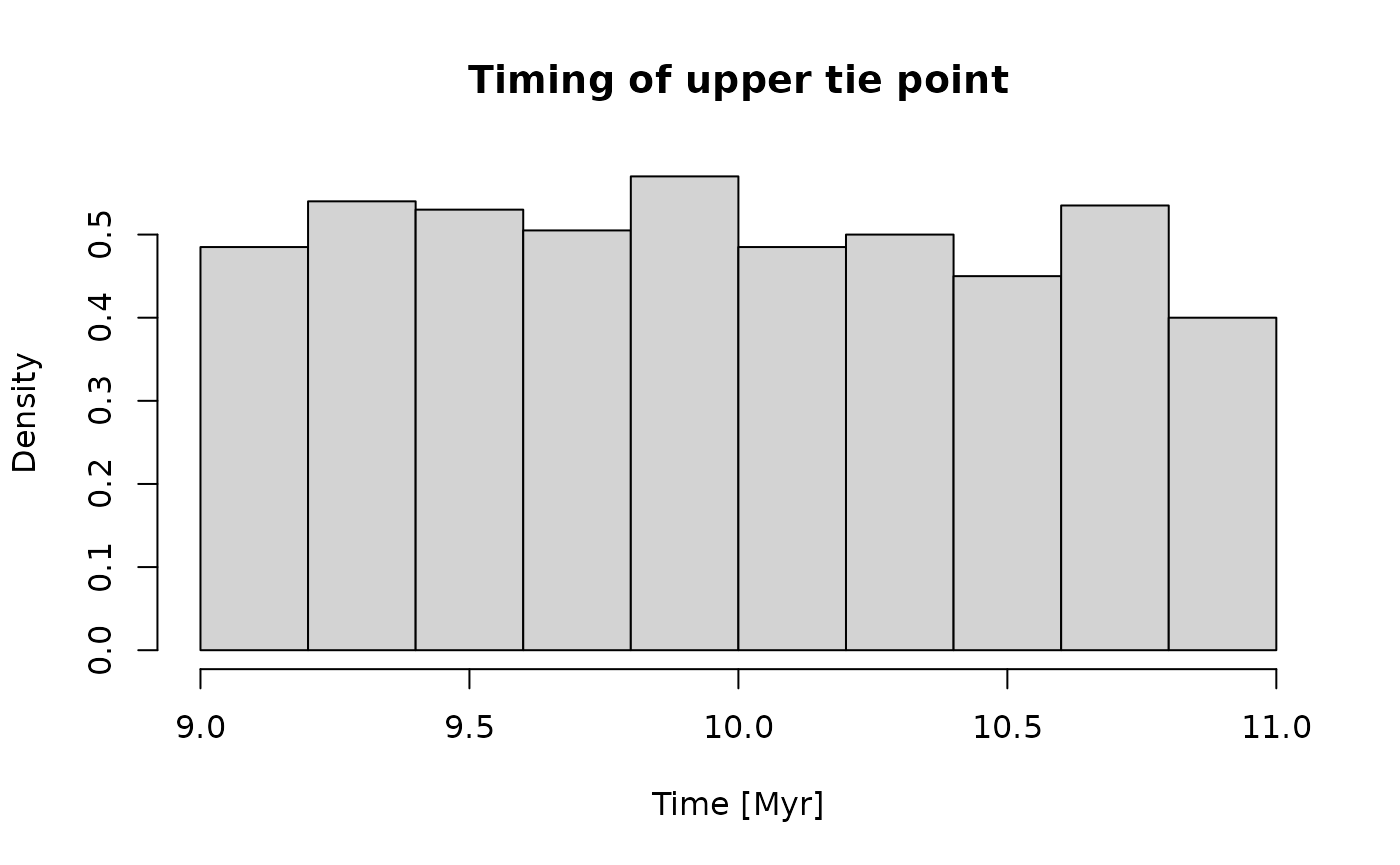
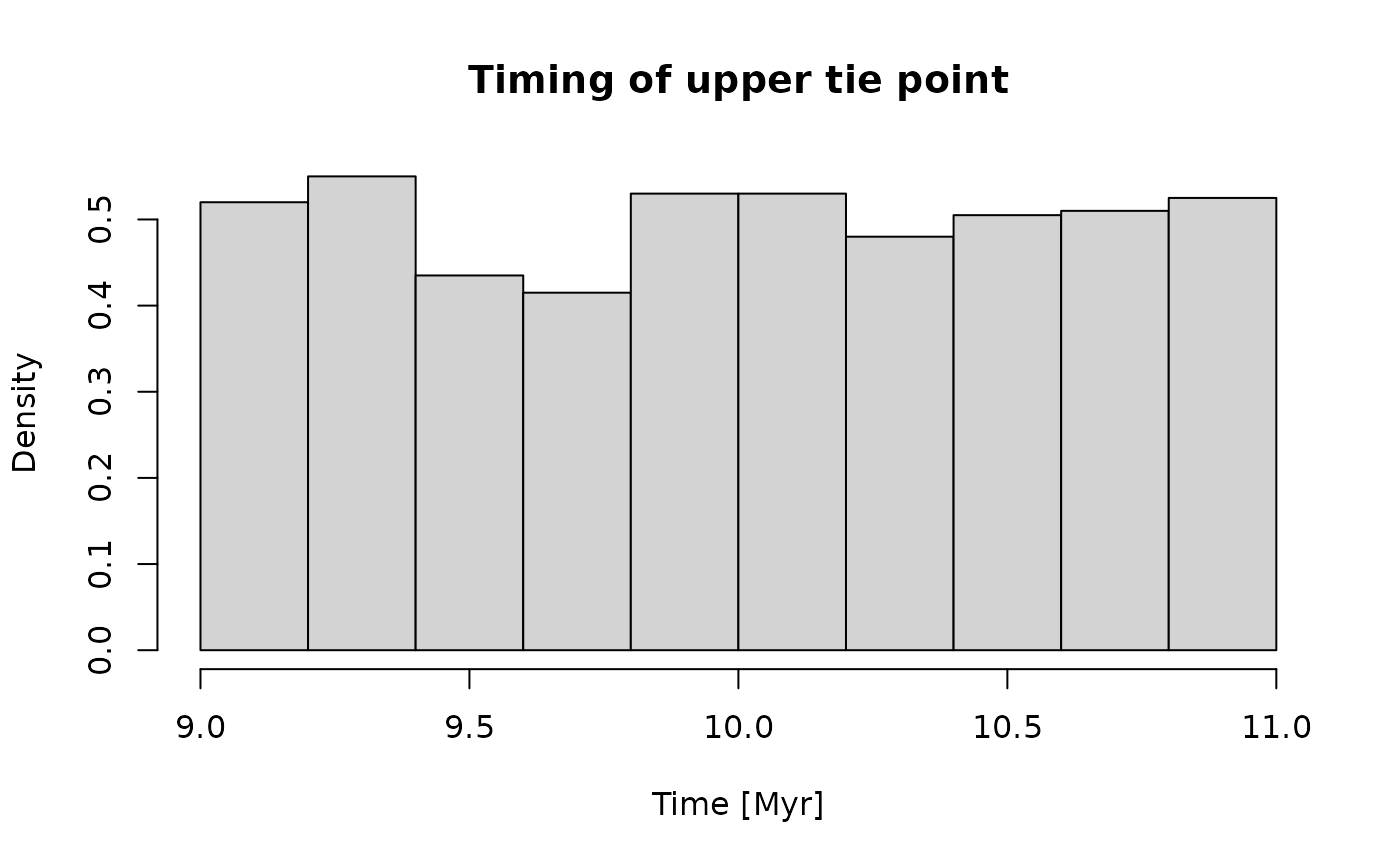
Deploying to gh-pages from @ MindTheGap-ERC/admtools@b048e6ee0ab0dc330cd47e70485b42209ff1c9a5 🚀

diff --git a/articles/admtools.html b/articles/admtools.html
@@ -276,7 +276,7 @@ duration.</li>
 <p>The function <code>is_destructive</code> can be used to examine
 whether points in time coincide with hiatuses:</p>
 <div class="sourceCode" id="cb16"><pre class="downlit sourceCode r">
-<code class="sourceCode R"><span><span class="fu"><a href="../reference/is_destructive.html">is_destructive</a></span><span class="op">(</span>adm <span class="op">=</span> <span class="va">my_adm</span>,</span>
+<code class="sourceCode R"><span><span class="fu"><a href="../reference/is_destructive.html">is_destructive</a></span><span class="op">(</span><span class="va">my_adm</span>,</span>
 <span>               t <span class="op">=</span> <span class="fu"><a href="https://rdrr.io/r/base/c.html" class="external-link">c</a></span><span class="op">(</span><span class="fl">0.1</span>,<span class="fl">0.5</span><span class="op">)</span><span class="op">)</span> </span>
 <span><span class="co">#&gt; [1] FALSE  TRUE</span></span></code></pre></div>
 </div>
@@ -301,14 +301,14 @@ returns a vector of associated positions</li>
 following stratigraphic positions:</p>
 <div class="sourceCode" id="cb17"><pre class="downlit sourceCode r">
 <code class="sourceCode R"><span><span class="va">h</span> <span class="op">=</span> <span class="fu"><a href="https://rdrr.io/r/base/c.html" class="external-link">c</a></span><span class="op">(</span><span class="fl">30</span>,<span class="fl">120</span><span class="op">)</span> <span class="co"># stratigraphic positions</span></span>
-<span><span class="fu"><a href="../reference/get_time.html">get_time</a></span><span class="op">(</span>adm <span class="op">=</span> <span class="va">my_adm</span>,</span>
+<span><span class="fu"><a href="../reference/get_time.html">get_time</a></span><span class="op">(</span><span class="va">my_adm</span>,</span>
 <span>             h <span class="op">=</span> <span class="va">h</span><span class="op">)</span></span>
 <span><span class="co">#&gt; [1] 0.1380552 1.2704696</span></span></code></pre></div>
 <p>Conversely, to determine what parts of the section are deposited as a
 specific time, use</p>
 <div class="sourceCode" id="cb18"><pre class="downlit sourceCode r">
 <code class="sourceCode R"><span><span class="va">t</span> <span class="op">=</span> <span class="fu"><a href="https://rdrr.io/r/base/c.html" class="external-link">c</a></span><span class="op">(</span><span class="fl">0.2</span>,<span class="fl">1.4</span><span class="op">)</span></span>
-<span><span class="fu"><a href="../reference/get_height.html">get_height</a></span><span class="op">(</span>adm <span class="op">=</span> <span class="va">my_adm</span>,</span>
+<span><span class="fu"><a href="../reference/get_height.html">get_height</a></span><span class="op">(</span><span class="va">my_adm</span>,</span>
 <span>           t <span class="op">=</span> <span class="va">t</span><span class="op">)</span></span>
 <span><span class="co">#&gt; [1] 39.13951       NA</span></span></code></pre></div>
 <p>Here, the <code>NA</code> indicates that the time 1.4 coincides with
@@ -317,7 +317,7 @@ that coincides with that time, use the option
 <code>destructive = FALSE</code>:</p>
 <div class="sourceCode" id="cb19"><pre class="downlit sourceCode r">
 <code class="sourceCode R"><span><span class="va">t</span> <span class="op">=</span> <span class="fu"><a href="https://rdrr.io/r/base/c.html" class="external-link">c</a></span><span class="op">(</span><span class="fl">0.2</span>,<span class="fl">1.4</span><span class="op">)</span></span>
-<span><span class="fu"><a href="../reference/get_height.html">get_height</a></span><span class="op">(</span>adm <span class="op">=</span> <span class="va">my_adm</span>,</span>
+<span><span class="fu"><a href="../reference/get_height.html">get_height</a></span><span class="op">(</span><span class="va">my_adm</span>,</span>
 <span>           t <span class="op">=</span> <span class="va">t</span>,</span>
 <span>           destructive <span class="op">=</span> <span class="cn">FALSE</span><span class="op">)</span></span>
 <span><span class="co">#&gt; [1]  39.13951 126.27764</span></span></code></pre></div>

diff --git a/articles/adm_from_trace_cont.html b/articles/adm_from_trace_cont.html
@@ -259,7 +259,7 @@ using the function <code>strat_cont_to_multiadm</code>. Here, I
 determine the age-depth models every 0.25 m, and generate 10 ADMs</p>
 <div class="sourceCode" id="cb11"><pre class="downlit sourceCode r">
 <code class="sourceCode R"><span><span class="va">h</span> <span class="op">=</span> <span class="fu"><a href="https://rdrr.io/r/base/seq.html" class="external-link">seq</a></span><span class="op">(</span><span class="va">h_min</span>,<span class="va">h_max</span>, by <span class="op">=</span> <span class="fl">0.25</span><span class="op">)</span> <span class="co"># strat. positions where ADMs are estimated</span></span>
-<span><span class="va">no_of_rep</span> <span class="op">=</span> <span class="fl">10</span> <span class="co"># no. of ADMs estimated</span></span></code></pre></div>
+<span><span class="va">no_of_rep</span> <span class="op">=</span> <span class="fl">1000</span> <span class="co"># no. of ADMs estimated</span></span></code></pre></div>
 <div class="sourceCode" id="cb12"><pre class="downlit sourceCode r">
 <code class="sourceCode R"><span><span class="va">my_adm</span> <span class="op">=</span> <span class="fu"><a href="../reference/strat_cont_to_multiadm.html">strat_cont_to_multiadm</a></span><span class="op">(</span>h_tp <span class="op">=</span> <span class="va">h_tp</span>,</span>
 <span>                                t_tp <span class="op">=</span> <span class="va">t_tp</span>,</span>
@@ -270,7 +270,11 @@ determine the age-depth models every 0.25 m, and generate 10 ADMs</p>
 <p>The estimated age-depth model can be handed to plot to display
 it:</p>
 <div class="sourceCode" id="cb13"><pre class="downlit sourceCode r">
-<code class="sourceCode R"><span><span class="fu"><a href="https://rdrr.io/r/graphics/plot.default.html" class="external-link">plot</a></span><span class="op">(</span><span class="va">my_adm</span><span class="op">)</span></span></code></pre></div>
+<code class="sourceCode R"><span><span class="fu"><a href="https://rdrr.io/r/graphics/plot.default.html" class="external-link">plot</a></span><span class="op">(</span><span class="va">my_adm</span>, mode <span class="op">=</span> <span class="st">"envelope"</span><span class="op">)</span></span>
+<span><span class="fu"><a href="https://rdrr.io/r/graphics/legend.html" class="external-link">legend</a></span><span class="op">(</span><span class="st">"topleft"</span>,</span>
+<span>       col <span class="op">=</span> <span class="fu"><a href="https://rdrr.io/r/base/c.html" class="external-link">c</a></span><span class="op">(</span><span class="st">"blue"</span>, <span class="st">"red"</span><span class="op">)</span>,</span>
+<span>       legend <span class="op">=</span> <span class="fu"><a href="https://rdrr.io/r/base/c.html" class="external-link">c</a></span><span class="op">(</span><span class="st">"95 % envelope"</span>, <span class="st">"Median"</span><span class="op">)</span>,</span>
+<span>       lwd <span class="op">=</span> <span class="fl">2</span><span class="op">)</span></span></code></pre></div>
 <p><img src="adm_from_trace_cont_files/figure-html/unnamed-chunk-13-1.png" width="700"></p>
 </div>
 <div class="section level2">

diff --git a/articles/adm_from_sedrate.html b/articles/adm_from_sedrate.html
@@ -271,7 +271,7 @@ model from the inputs. Here, I determine the age-depth models every
 meter, and generate 10 ADMs</p>
 <div class="sourceCode" id="cb9"><pre class="downlit sourceCode r">
 <code class="sourceCode R"><span><span class="va">h</span> <span class="op">=</span> <span class="fu"><a href="https://rdrr.io/r/base/seq.html" class="external-link">seq</a></span><span class="op">(</span><span class="va">h_min</span>,<span class="va">h_max</span>, by <span class="op">=</span> <span class="fl">1</span><span class="op">)</span> <span class="co"># strat. positions where ADMs are estimated</span></span>
-<span><span class="va">no_of_rep</span> <span class="op">=</span> <span class="fl">10</span> <span class="co"># no. of ADMs estimated</span></span></code></pre></div>
+<span><span class="va">no_of_rep</span> <span class="op">=</span> <span class="fl">1000</span> <span class="co"># no. of ADMs estimated</span></span></code></pre></div>
 <div class="sourceCode" id="cb10"><pre class="downlit sourceCode r">
 <code class="sourceCode R"><span><span class="va">my_adm</span> <span class="op">=</span> <span class="fu"><a href="../reference/sedrate_to_multiadm.html">sedrate_to_multiadm</a></span><span class="op">(</span>h_tp <span class="op">=</span> <span class="fu">h_tp</span><span class="op">(</span><span class="op">)</span>,</span>
 <span>                             t_tp <span class="op">=</span> <span class="fu">t_tp</span><span class="op">(</span><span class="op">)</span>,</span>

diff --git a/reference/get_height.html b/reference/get_height.html
@@ -64,13 +64,13 @@ heights deposited at said times</p>
 
     <div class="section level2">
     <h2 id="ref-usage">Usage<a class="anchor" aria-label="anchor" href="#ref-usage"></a></h2>
-    <div class="sourceCode"><pre class="sourceCode r"><code><span><span class="fu">get_height</span><span class="op">(</span><span class="va">adm</span>, <span class="va">t</span>, destructive <span class="op">=</span> <span class="cn">TRUE</span>, out_dom_val_h <span class="op">=</span> <span class="st">"default"</span>, <span class="va">...</span><span class="op">)</span></span></code></pre></div>
+    <div class="sourceCode"><pre class="sourceCode r"><code><span><span class="fu">get_height</span><span class="op">(</span><span class="va">x</span>, <span class="va">t</span>, destructive <span class="op">=</span> <span class="cn">TRUE</span>, out_dom_val_h <span class="op">=</span> <span class="st">"default"</span>, <span class="va">...</span><span class="op">)</span></span></code></pre></div>
     </div>
 
     <div class="section level2">
     <h2 id="arguments">Arguments<a class="anchor" aria-label="anchor" href="#arguments"></a></h2>
-    <dl><dt>adm</dt>
-<dd><p>an <em>adm</em> object</p></dd>
+    <dl><dt>x</dt>
+<dd><p>an <em>adm</em> or <em>multiadm</em> object</p></dd>
 
 
 <dt>t</dt>

diff --git a/reference/get_time.html b/reference/get_time.html
@@ -64,14 +64,14 @@ the corresponding time of formation</p>
 
     <div class="section level2">
     <h2 id="ref-usage">Usage<a class="anchor" aria-label="anchor" href="#ref-usage"></a></h2>
-    <div class="sourceCode"><pre class="sourceCode r"><code><span><span class="fu">get_time</span><span class="op">(</span><span class="va">adm</span>, <span class="va">h</span>, hiat_mode <span class="op">=</span> <span class="st">"start"</span>, </span>
+    <div class="sourceCode"><pre class="sourceCode r"><code><span><span class="fu">get_time</span><span class="op">(</span><span class="va">x</span>, <span class="va">h</span>, hiat_mode <span class="op">=</span> <span class="st">"start"</span>, </span>
 <span>bdry_pts_hiat <span class="op">=</span> <span class="st">"destructive"</span>, out_dom_val_t <span class="op">=</span> <span class="st">"default"</span><span class="op">)</span></span></code></pre></div>
     </div>
 
     <div class="section level2">
     <h2 id="arguments">Arguments<a class="anchor" aria-label="anchor" href="#arguments"></a></h2>
-    <dl><dt>adm</dt>
-<dd><p>an adm object</p></dd>
+    <dl><dt>x</dt>
+<dd><p>an <em>adm</em> or <em>multiadm</em> object</p></dd>
 
 
 <dt>h</dt>

diff --git a/reference/is_destructive.html b/reference/is_destructive.html
@@ -61,14 +61,14 @@
 
     <div class="section level2">
     <h2 id="ref-usage">Usage<a class="anchor" aria-label="anchor" href="#ref-usage"></a></h2>
-    <div class="sourceCode"><pre class="sourceCode r"><code><span><span class="fu">is_destructive</span><span class="op">(</span><span class="va">adm</span>, <span class="va">t</span>, mode <span class="op">=</span> <span class="st">"rcll"</span>, </span>
+    <div class="sourceCode"><pre class="sourceCode r"><code><span><span class="fu">is_destructive</span><span class="op">(</span><span class="va">x</span>, <span class="va">t</span>, mode <span class="op">=</span> <span class="st">"rcll"</span>, </span>
 <span>bdry_pts_hiat <span class="op">=</span> <span class="st">"destructive"</span>, out_dom_mode <span class="op">=</span> <span class="st">"default"</span><span class="op">)</span></span></code></pre></div>
     </div>
 
     <div class="section level2">
     <h2 id="arguments">Arguments<a class="anchor" aria-label="anchor" href="#arguments"></a></h2>
-    <dl><dt>adm</dt>
-<dd><p>an adm object</p></dd>
+    <dl><dt>x</dt>
+<dd><p>an <em>adm</em> or <em>multiadm</em> object</p></dd>
 
 
 <dt>t</dt>

diff --git a/news/index.html b/news/index.html
@@ -58,7 +58,7 @@
 <h2 class="pkg-version" data-toc-text="development version" id="admtools-development-version">admtools (development version)<a class="anchor" aria-label="anchor" href="#admtools-development-version"></a></h2>
 </div>
     <div class="section level2">
-<h2 class="pkg-version" data-toc-text="0.1.0" id="admtools-010">admtools 0.1.0<a class="anchor" aria-label="anchor" href="#admtools-010"></a></h2>
+<h2 class="pkg-version" data-toc-text="0.1.0" id="admtools-010">admtools 0.1.0<a class="anchor" aria-label="anchor" href="#admtools-010"></a></h2><p class="text-muted">CRAN release: 2023-12-06</p>
 <ul><li><p>Updated vignettes</p></li>
 <li><p>Added generics <code>time_to_strat</code> and <code>strat_to_time</code> to transfrom objects between time and stratigraphic domain</p></li>
 <li><p>Added package help</p></li>
